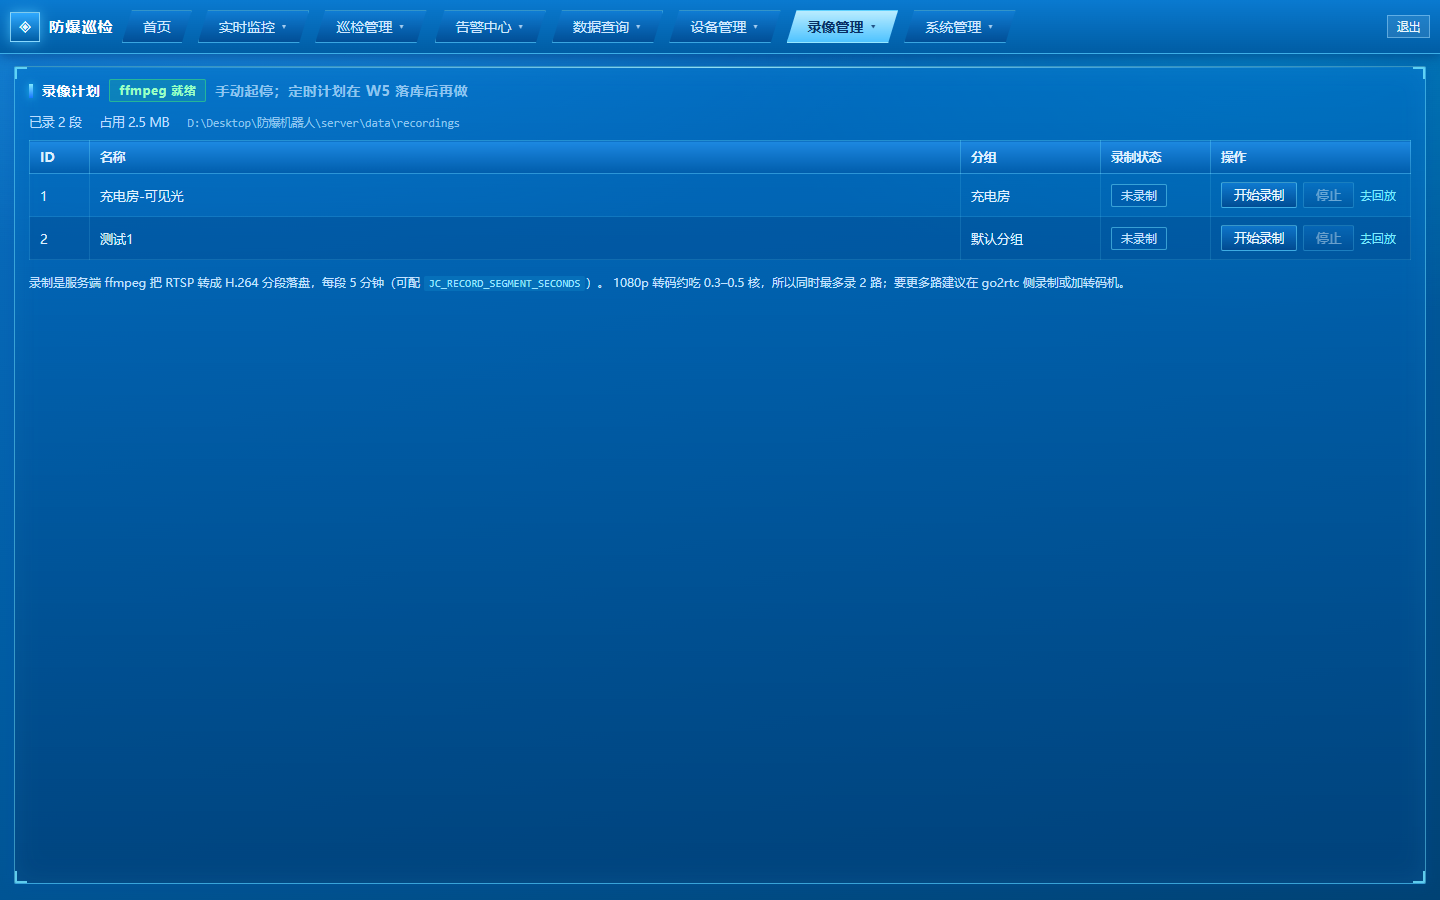
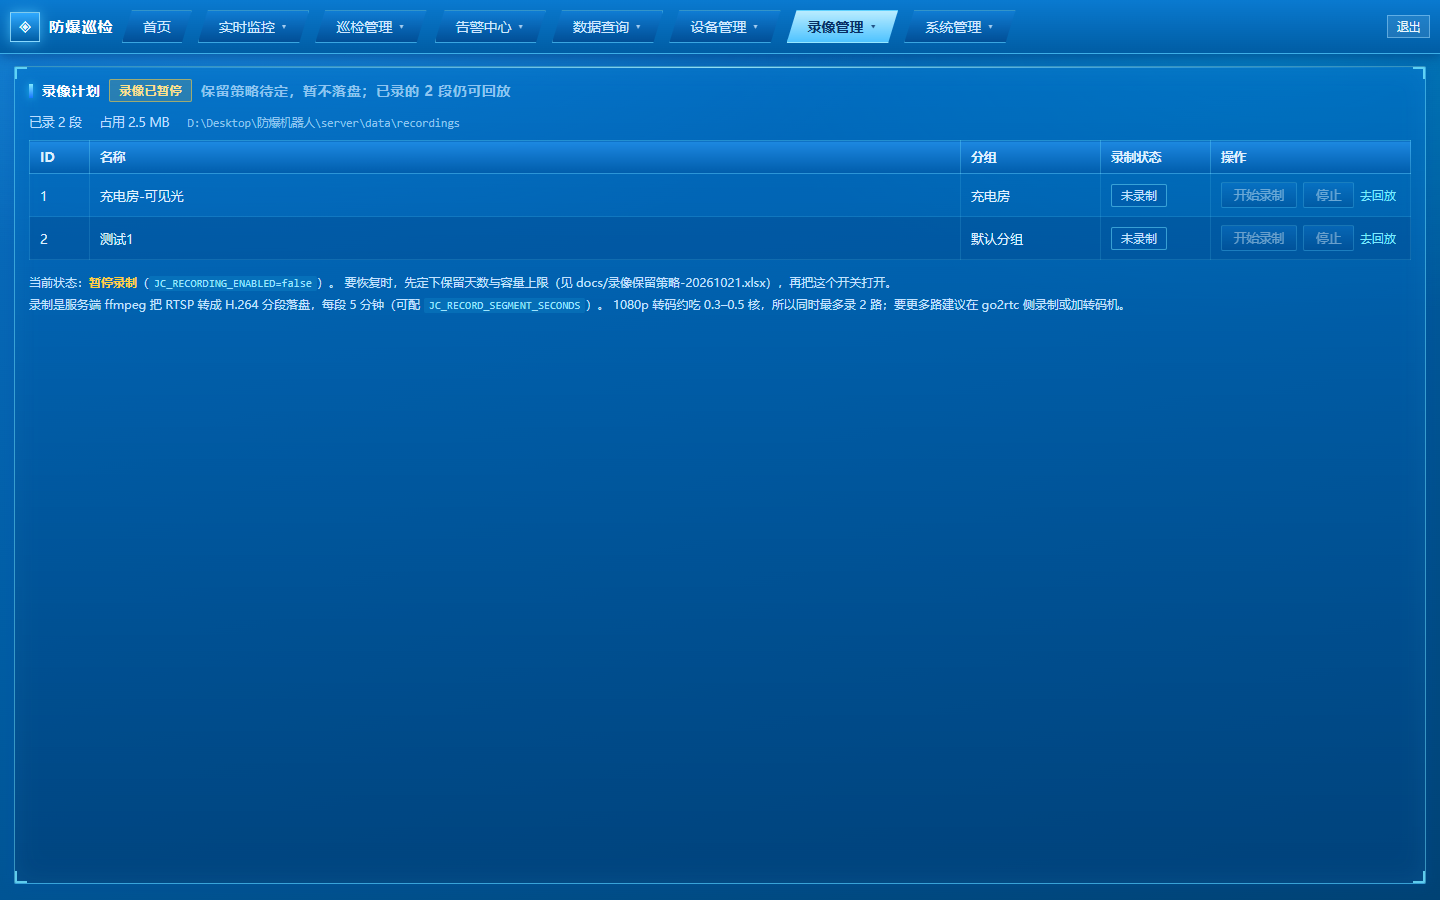
fix(web): 首页标题恢复 + 整页固定 + 面板内滚；录像暂停落盘
- 标题不再被断点隐藏，改用 clamp 缩字号；≤1100 仍保留
- .board overflow 改回 hidden：整页固定，滚动只发生在面板内部
- 删掉 ≤1240 的「流式文档」方案，改回固定三列 + minmax(0,…) 压缩
- 顶栏导航可横向滚动不撑破；状态带在窄屏隐藏非关键项
- 窄列文字不折行（点位/图例/环境格），控制面板说明限两行
- 录像默认关闭：JC_RECORDING_ENABLED=false，接口返回 RECORDING_DISABLED，
  录像计划页显示「录像已暂停」且按钮禁用；已录分段仍可回放

Changed region(s): [[0.0, 0.3111, 0.7812, 0.3422], [0.0625, 0.0622, 0.375, 0.1244], [0.8438, 0.1867, 0.9062, 0.28]]

diff --git a/web/src/pages/Dashboard.vue b/web/src/pages/Dashboard.vue
@@ -319,7 +319,7 @@ async function logout() {
   position: fixed; inset: 0; z-index: 40;
   display: grid;
   grid-template-rows: 54px 40px minmax(0, 1fr) 26px;
-  overflow: auto;
+  overflow: hidden;   /* 整页固定，滚动只发生在面板内部 */
   color: #dff0ff;
   font-size: 13px;
   background:
@@ -519,7 +519,13 @@ async function logout() {
 .ctrl-meta div { display: flex; justify-content: space-between; gap: 12px; }
 .ctrl-meta span { color: #9fd2ff; }
 .ctrl-meta b { color: #eaf7ff; font-weight: 600; }
-.ctrl-meta p { margin: 4px 0 0; font-size: 10.5px; }
+.ctrl-meta p {
+  margin: 4px 0 0; font-size: 10.5px;
+  color: #8fc4f0;
+  max-width: 190px;
+  display: -webkit-box; -webkit-line-clamp: 2; -webkit-box-orient: vertical;
+  overflow: hidden;
+}
 
 /* 地图扫码 */
 .map-frame { position: relative; flex: 1 1 auto; min-height: 0; }
@@ -586,6 +592,8 @@ async function logout() {
   padding: 5px 6px; font-size: 12.5px;
   border-bottom: 1px dashed rgba(140, 210, 255, 0.18);
 }
+/* 点位多时在面板内滚动，不把页面顶长 */
+.t-panel:has(.points) :deep(.t-body) { max-height: 100%; }
 .points .idx {
   width: 22px; height: 18px; display: grid; place-items: center;
   font-size: 10.5px; color: #062f66; font-weight: 700;
@@ -595,66 +603,85 @@ async function logout() {
 .points .coord { margin-left: auto; color: #9fd2ff; font-size: 11px; }
 
 /* ---------- 响应式：窄屏/矮屏都不挤爆 ---------- */
-@media (max-height: 900px) {
-  .board { grid-template-rows: 54px 40px minmax(620px, 1fr) 26px; }
+@media (max-width: 1780px) {
+  .board-title h1 { font-size: clamp(15px, 1.25vw, 20px); letter-spacing: 0.08em; }
+  .wing { width: 22px; }
+  .tab { padding: 5px 12px; font-size: 13px; }
+  .logo-text i { display: none; }
 }
 
-@media (max-width: 1780px) {
-  .board-title h1 { font-size: 20px; letter-spacing: 0.1em; }
-  .wing { width: 26px; }
-}
 @media (max-width: 1600px) {
-  .board-title { display: none; }
-  .hdr { grid-template-columns: auto 1fr auto; }
-  .wing { width: 46px; }
-  .tab { padding: 5px 13px; font-size: 13px; }
-  .logo-text i { display: none; }
+  .tab { padding: 4px 10px; font-size: 12.5px; }
+  .board-title { gap: 10px; }
+  .wing { width: 16px; }
   .stat { gap: 4px; font-size: 11.5px; }
   .subbar { gap: 10px; }
 }
 
 @media (max-width: 1440px) {
   .hdr { gap: 8px; }
-  .board-title h1 { font-size: 18px; letter-spacing: 0.1em; }
-  .wing { width: 28px; }
-  .tab { padding: 4px 10px; font-size: 12.5px; }
+  .board-title h1 { font-size: clamp(13px, 1.15vw, 16px); letter-spacing: 0.06em; }
   .user { display: none; }
   .h-ctrl { height: 182px; }
   .h-donut { height: 236px; }
-  .h-points { height: 208px; }
-  .h-msg { height: 168px; }
+  .h-points { height: 226px; }
+  .h-msg { height: 158px; }
 }
 
-/* 窄屏：整块改成普通流式文档，面板从上到下排、整页滚动，绝不互相压 */
+/* 窄屏：仍保持固定三列，靠压缩列宽 + 面板内滚，不整页滚 */
 @media (max-width: 1240px) {
-  .board { display: block; overflow: auto; }
-  .hdr { position: sticky; top: 0; z-index: 6; }
-  .subbar { flex-wrap: wrap; height: auto; padding: 6px 12px; gap: 8px; }
-  .sb-right { flex-wrap: wrap; }
-  .clock { min-width: auto; }
+  /* 列宽用 minmax(0,…)：宁可压缩内容，也不撑破整页 */
+  .body { grid-template-columns: minmax(0, 280px) minmax(0, 1fr) minmax(0, 250px); gap: 8px; padding: 8px; }
+  .col, .t-panel { min-width: 0; }
+  .logo-text { display: none; }
+  .hdr { grid-template-columns: auto auto minmax(0, 1fr) auto; }
+  .subbar { gap: 8px; overflow: hidden; }
+  .sb-left { min-width: 0; }
+  .sb-right { gap: 8px; }
+  .stat label { display: none; }        /* 状态带只留值，省宽度 */
+  .clock i { display: none; }
+  .tabs .tab:nth-child(n + 4) { display: none; }
+  .h-ctrl { height: 168px; }
+  .h-donut { height: 210px; }
+  .h-points { height: 180px; }
+  .h-msg { height: 150px; }
+}
 
-  .body {
-    display: flex; flex-direction: column;
-    gap: 10px; padding: 10px 12px;
-    height: auto; min-height: 0;
-  }
-  /* 取消列容器本身，让面板直接排进 body */
-  .col, .col.center { display: contents; grid-template-rows: none; }
-  .t-panel {
-    flex: none; height: auto; min-height: 0;
-  }
-  .t-panel :deep(.video-box) { height: 210px; }
-  .t-panel :deep(.screen) { min-height: 150px; }
-  .map-frame { height: 46vh; min-height: 300px; }
-  .tabs .tab:nth-child(n + 3) { display: none; }
-  .footbar { position: static; }
+@media (max-width: 1240px) {
+  /* 窄列里别让文字折行，宁可变小 */
+  .legend li, .env-label, .ctrl-meta div, .points .name { white-space: nowrap; }
+  .legend { font-size: 11px; gap: 5px; }
+  .legend b { font-size: 12px; }
+  .env-label { font-size: 10.5px; }
+  .env-value { font-size: 13px; }
+  .env-cell { padding: 5px 6px; }
+  .ctrl-meta { font-size: 11px; }
+  .ctrl-meta p { display: none; }
+  .stick { width: 64px; height: 64px; }
+  .donut { width: 92px; height: 92px; }
+  .donut-center { width: 92px; }
+  .donut-center b { font-size: 20px; }
+}
+
+@media (max-width: 1100px) {
+  .body { grid-template-columns: minmax(0, 230px) minmax(0, 1fr) minmax(0, 210px); }
+  .board-title h1 { font-size: 12px; letter-spacing: 0; }
+  .sb-right .stat:nth-child(n + 4) { display: none; }
 }
 
 @media (max-width: 860px) {
-  .hdr { grid-template-columns: auto 1fr; }
-  .board-title { display: none; }
+  .hdr { grid-template-columns: auto auto 1fr; }
+  .board-title h1 { font-size: 12px; letter-spacing: 0; }
+  .wing { display: none; }
   .col.left, .col.right { grid-template-columns: minmax(0, 1fr); }
   .icon-btn, .logout { display: none; }
+}
+
+/* 面板内容底部渐隐：暗示还能往下滚 */
+.t-panel :deep(.t-body) {
+  scrollbar-width: thin;
+  background-image: linear-gradient(180deg, transparent calc(100% - 18px), rgba(0, 30, 70, 0.55));
+  background-attachment: local;
 }
 
 /* 表格 */

diff --git a/web/src/pages/RecordPlan.vue b/web/src/pages/RecordPlan.vue
@@ -9,6 +9,7 @@ const running = ref<Record<number, boolean>>({})
 const storage = ref({ files: 0, bytes: 0, dir: '' })
 const ready = ref(false)
 const ffmpeg = ref(true)
+const paused = ref(true)   // 与后端 JC_RECORDING_ENABLED 对应；关闭时不写盘
 
 const totalMb = computed(() => (storage.value.bytes / 1024 / 1024).toFixed(1))
 
@@ -32,6 +33,10 @@ async function load() {
 }
 
 async function start(v: VideoRow) {
+  if (paused.value) {
+    toast('录像已暂停：保留策略待定，暂不落盘', 'warn', 3000)
+    return
+  }
   try {
     await api.startRecording(v.id)
     toast(`开始录制：${v.name}`, 'ok')
@@ -64,8 +69,8 @@ onBeforeUnmount(() => window.clearInterval(timer))
     <section class="panel">
       <div class="panel-title">
         <span>录像计划</span>
-        <span class="tag" :class="ffmpeg ? 'ok' : 'danger'">{{ ffmpeg ? 'ffmpeg 就绪' : '缺少 ffmpeg' }}</span>
-        <span class="muted">手动起停；定时计划在 W5 落库后再做</span>
+        <span class="tag warn">录像已暂停</span>
+        <span class="muted">保留策略待定，暂不落盘；已录的 {{ storage.files }} 段仍可回放</span>
       </div>
 
       <div class="summary">
@@ -96,7 +101,7 @@ onBeforeUnmount(() => window.clearInterval(timer))
             </td>
             <td>
               <div class="row-actions">
-                <button class="btn btn-sm" :disabled="running[v.id]" @click="start(v)">开始录制</button>
+                <button class="btn btn-sm" :disabled="paused || running[v.id]" :title="paused ? '保留策略待定，暂不落盘' : ''" @click="start(v)">开始录制</button>
                 <button class="btn btn-sm" :disabled="!running[v.id]" @click="stop(v)">停止</button>
                 <button class="link-btn" @click="$router.push({ name: 'record-playback' })">去回放</button>
               </div>
@@ -107,6 +112,8 @@ onBeforeUnmount(() => window.clearInterval(timer))
       </table>
 
       <p class="muted small">
+        当前状态：<b class="warn">暂停录制</b>（<code>JC_RECORDING_ENABLED=false</code>）。
+        要恢复时，先定下保留天数与容量上限（见 docs/录像保留策略-20261021.xlsx），再把这个开关打开。<br />
         录制是服务端 ffmpeg 把 RTSP 转成 H.264 分段落盘，每段 5 分钟（可配 <code>JC_RECORD_SEGMENT_SECONDS</code>）。
         1080p 转码约吃 0.3–0.5 核，所以同时最多录 2 路；要更多路建议在 go2rtc 侧录制或加转码机。
       </p>

diff --git a/web/src/components/TopNav.vue b/web/src/components/TopNav.vue
@@ -83,7 +83,8 @@ defineExpose({ currentLabel })
 </template>
 
 <style scoped>
-.nav { display: flex; gap: 6px; align-items: center; }
+.nav { display: flex; gap: 6px; align-items: center; min-width: 0; overflow-x: auto; scrollbar-width: none; }
+.nav::-webkit-scrollbar { display: none; }
 
 .nav-item { position: relative; }
 

diff --git a/server/app/api/v1/recordings.py b/server/app/api/v1/recordings.py
@@ -51,6 +51,10 @@ def start_recording(
     v = db.get(VideoSource, video_id)
     if not v:
         raise NotFound("视频源不存在")
+    from app.core.config import get_settings
+
+    if not getattr(get_settings(), "recording_enabled", False):
+        raise BadRequest("录像已暂停：保留策略待定，暂不落盘", code="RECORDING_DISABLED")
     if not FFMPEG:
         raise BadRequest("服务端没有 ffmpeg，无法录像", code="FFMPEG_MISSING")
     rec = registry.start(video_id, v.name, v.url)

diff --git a/server/app/core/config.py b/server/app/core/config.py
@@ -43,6 +43,8 @@ class Settings(BaseSettings):
     go2rtc_base: str = ""
     # MJPEG 转码宽度：太小会糊、太大吃 CPU
     video_scale_width: int = 1280
+    # 录像开关：保留策略未定前默认关闭，避免盘被写满
+    recording_enabled: bool = False
     jcrob_base_url: str = "http://127.0.0.1:3546"
     jcrob_ws_url: str = "ws://127.0.0.1:3547"
     jcrob_username: str = "admin"
